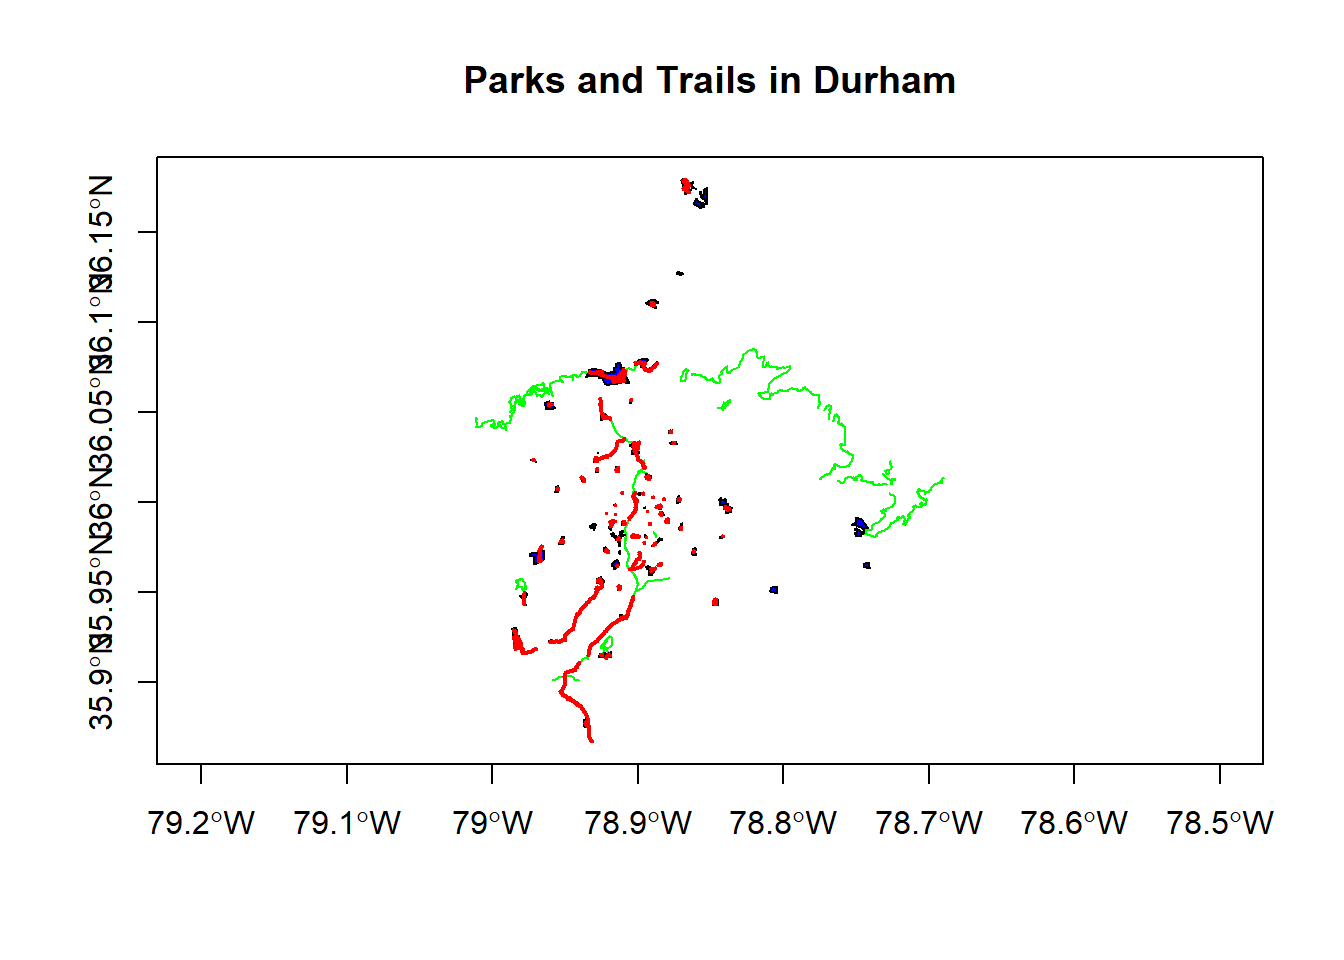
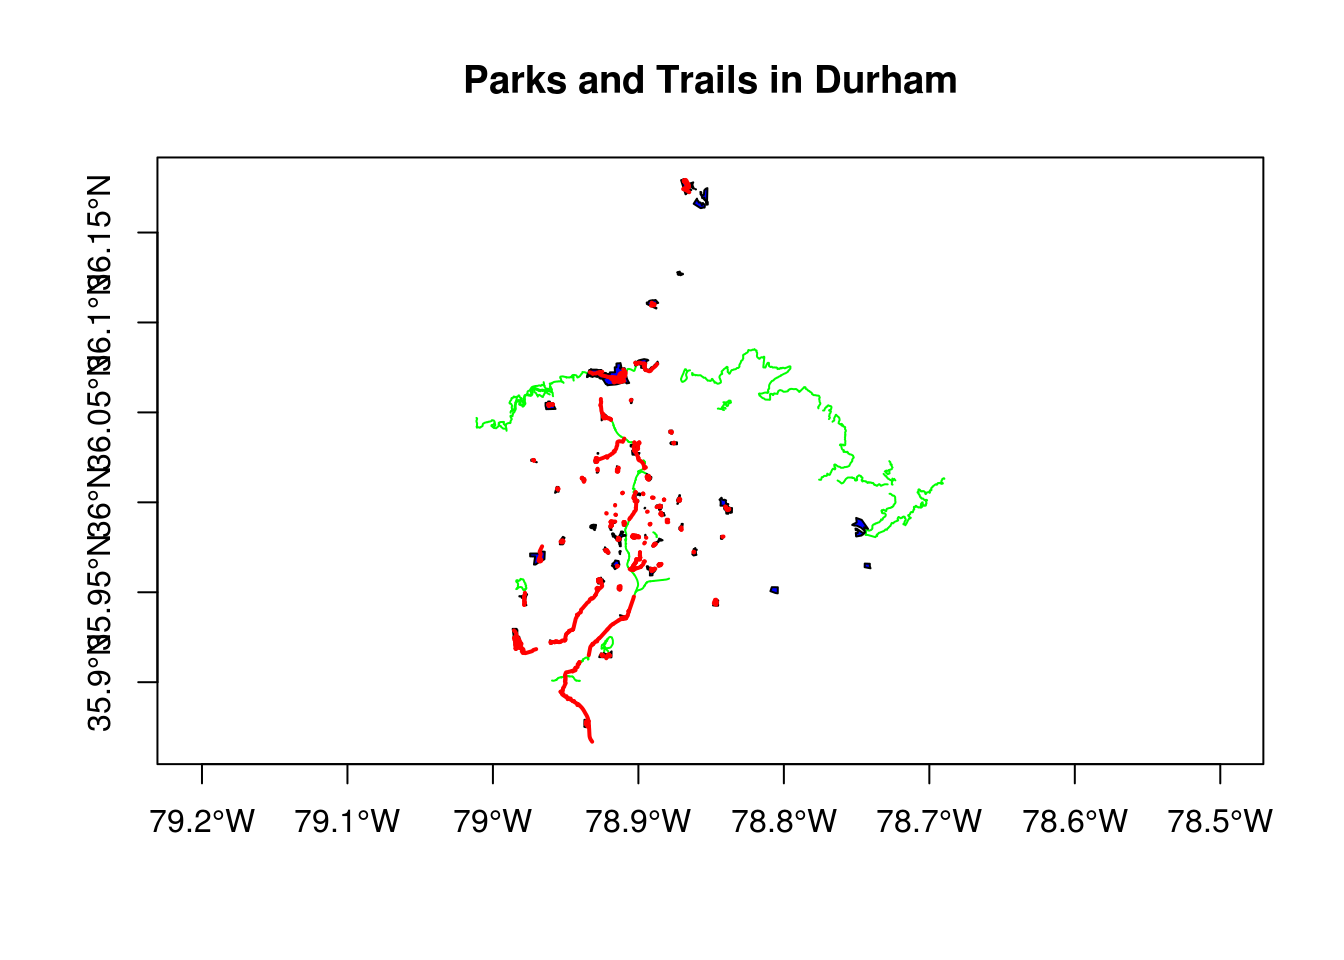
proximity

diff --git a/SpatialOperations1.html b/SpatialOperations1.html
@@ -125,9 +125,6 @@ img {
 .tabbed-pane {
   padding-top: 12px;
 }
-.html-widget {
-  margin-bottom: 20px;
-}
 button.code-folding-btn:focus {
   outline: none;
 }
@@ -383,29 +380,34 @@ div.tocify {
 <div class="sourceCode"><pre class="sourceCode r"><code class="sourceCode r"><span class="kw">library</span>(sf)
 trails &lt;-<span class="st"> </span><span class="kw">read_sf</span>(<span class="st">&quot;https://opendurham.nc.gov/api/v2/catalog/datasets/existing-trails/exports/geojson&quot;</span>)
 parks &lt;-<span class="st"> </span><span class="kw">read_sf</span>(<span class="st">&quot;https://opendurham.nc.gov/api/v2/catalog/datasets/city-parks/exports/geojson&quot;</span>)
-<span class="kw">plot</span>(trails<span class="op">$</span>geometry, <span class="dt">col=</span><span class="st">&#39;green&#39;</span>, <span class="dt">axes=</span>T)
-<span class="kw">plot</span>(parks<span class="op">$</span>geometry, <span class="dt">col=</span><span class="st">&#39;blue&#39;</span>, <span class="dt">add=</span>T)
+<span class="kw">plot</span>(trails$geometry, <span class="dt">col=</span><span class="st">&#39;green&#39;</span>, <span class="dt">axes=</span>T)
+<span class="kw">plot</span>(parks$geometry, <span class="dt">col=</span><span class="st">&#39;blue&#39;</span>, <span class="dt">add=</span>T)
 trails_in_parks &lt;-<span class="st"> </span>trails[parks,]
-<span class="kw">plot</span>(trails_in_parks<span class="op">$</span>geometry, <span class="dt">col=</span><span class="st">&#39;red&#39;</span>, <span class="dt">lwd =</span> <span class="dv">2</span>, <span class="dt">add=</span>T)
+<span class="kw">plot</span>(trails_in_parks$geometry, <span class="dt">col=</span><span class="st">&#39;red&#39;</span>, <span class="dt">lwd =</span> <span class="dv">2</span>, <span class="dt">add=</span>T)
 <span class="kw">title</span>(<span class="dt">main=</span><span class="st">&#39;Parks and Trails in Durham&#39;</span>)</code></pre></div>
 <p><img src="SpatialOperations1_files/figure-html/subset-1.png" width="672" /></p>
 <p>Notice the warning we got about planar coordinates - should we be concerned about that?</p>
 </div>
-<div id="spatial-joins" class="section level3">
-<h3>Spatial Joins</h3>
-<p>Let’s roll together a couple concepts now using a spatial join in <code>sf</code>. We’ll grab a geojson of bike parking locations from Durham Open Data, and then let’s try to find and map all the covered bike parking that is within a mile of a park:</p>
+<div id="proximity-calculation" class="section level3">
+<h3>Proximity calculation</h3>
+Here’s a gist I have of a function I’ve used based on <code>gDistance</code> in <code>geos</code> package working with <code>sp</code> points and polygons - we’ll try to implement something similar in <code>sf</code>:
+<script src="https://gist.github.com/mhweber/d87c3fdf9f71ac4f9e69565086ece74f.js"></script>
+<p>Let’s grab a geojson of bike parking locations from Durham Open Data, and then let’s try to find and map all the covered bike parking that is within a mile of a park - in code below I test and try and few things and use some techniques you may have questions about. See if this all makes sense, ask questions and we can discuss:</p>
 <div class="sourceCode"><pre class="sourceCode r"><code class="sourceCode r">bike_parking &lt;-<span class="st"> </span><span class="kw">read_sf</span>(<span class="st">&quot;https://opendurham.nc.gov/api/v2/catalog/datasets/durham-bike-parking/exports/geojson&quot;</span>)
 bike_parking &lt;-<span class="st"> </span><span class="kw">st_transform</span>(bike_parking, <span class="dt">crs=</span><span class="dv">26917</span>)
 parks &lt;-<span class="st"> </span><span class="kw">st_transform</span>(parks, <span class="dt">crs=</span><span class="dv">26917</span>)
-mat &lt;-<span class="st"> </span><span class="kw">st_distance</span>(bike_parking, parks, <span class="dt">by_element=</span><span class="ot">TRUE</span>)
-parking_near_parks &lt;-<span class="st"> </span>bike_parking[parks, , op=st_is_within_distance, dist =<span class="st"> </span><span class="fl">16.34</span>]
-parking_near_parks &lt;-<span class="st"> </span><span class="kw">st_join</span>(parks, bike_parking, st_is_within_distance, <span class="dt">dist =</span><span class="fl">1609.34</span>) <span class="co"># meters - miles conversion factor</span>
-parking_near_parks &lt;-<span class="st"> </span>bike_parking[bike_parking<span class="op">$</span>fid <span class="op">%in%</span><span class="st"> </span>parking_near_parks<span class="op">$</span>fid,]
-parking_near_parks &lt;-<span class="st"> </span>parking_near_parks <span class="op">%&gt;%</span>
-<span class="st">  </span>dplyr<span class="op">::</span><span class="kw">distinct</span>(fid)
-<span class="kw">plot</span>(parks<span class="op">$</span>geometry, <span class="dt">col=</span><span class="st">&#39;green&#39;</span>, <span class="dt">axes=</span>T)
-<span class="kw">plot</span>(bike_parking <span class="op">$</span>geometry, <span class="dt">pch=</span><span class="dv">2</span>, <span class="dt">cex=</span>.<span class="dv">5</span>, <span class="dt">col=</span><span class="st">&#39;black&#39;</span>,<span class="dt">add=</span>T)
+sel &lt;-<span class="st"> </span><span class="kw">st_is_within_distance</span>(bike_parking, parks, <span class="dt">dist =</span> <span class="fl">1609.34</span>)
+<span class="kw">summary</span>(<span class="kw">lengths</span>(sel) &gt;<span class="st"> </span><span class="dv">0</span>) 
+<span class="co"># This is obviously not correct if we were to look at the features in ArcMap - there are numerous bike parking stations more than a mile from parks - something is wrong here....</span>
 
+<span class="co"># Let&#39;s try a different approach...</span>
+sel &lt;-<span class="st"> </span><span class="kw">st_distance</span>(bike_parking, parks, <span class="dt">by_element =</span> <span class="ot">TRUE</span>)
+bike_parking$park_dist &lt;-<span class="st"> </span><span class="kw">as.numeric</span>(sel)
+bike_parking_near_parks &lt;-<span class="st"> </span>bike_parking[bike_parking$park_dist &lt;=<span class="st"> </span><span class="fl">1609.34</span>,]
+<span class="kw">plot</span>(bike_parking_near_parks$geometry, <span class="dt">pch=</span><span class="dv">2</span>, <span class="dt">cex=</span>.<span class="dv">5</span>, <span class="dt">col=</span><span class="st">&#39;black&#39;</span>,<span class="dt">axes=</span>T)
+<span class="kw">plot</span>(parks$geometry, <span class="dt">col=</span><span class="st">&#39;green&#39;</span>, <span class="dt">border =</span> <span class="st">&#39;green&#39;</span>, <span class="dt">add=</span>T,)
+bike_parking_away_from_parks &lt;-<span class="st"> </span>bike_parking[bike_parking$park_dist &gt;<span class="st"> </span><span class="fl">1609.34</span>,]
+<span class="kw">plot</span>(bike_parking_away_from_parks$geometry, <span class="dt">pch=</span><span class="dv">3</span>, <span class="dt">cex=</span>.<span class="dv">5</span>, <span class="dt">col=</span><span class="st">&#39;red&#39;</span>,<span class="dt">add=</span>T)
 <span class="kw">title</span>(<span class="dt">main=</span><span class="st">&#39;Bike Parking and Parks in Durham&#39;</span>)</code></pre></div>
 </div>
 </div>

diff --git a/site_libs/navigation-1.1/FileSaver.min.js b/site_libs/navigation-1.1/FileSaver.min.js
@@ -1,0 +1,2 @@
+/*! @source http://purl.eligrey.com/github/FileSaver.js/blob/master/FileSaver.js */
+var saveAs=saveAs||function(e){"use strict";if("undefined"==typeof navigator||!/MSIE [1-9]\./.test(navigator.userAgent)){var t=e.document,n=function(){return e.URL||e.webkitURL||e},o=t.createElementNS("http://www.w3.org/1999/xhtml","a"),r="download"in o,i=function(e){var t=new MouseEvent("click");e.dispatchEvent(t)},a=/Version\/[\d\.]+.*Safari/.test(navigator.userAgent),c=e.webkitRequestFileSystem,f=e.requestFileSystem||c||e.mozRequestFileSystem,u=function(t){(e.setImmediate||e.setTimeout)(function(){throw t},0)},d="application/octet-stream",s=0,l=4e4,v=function(e){var t=function(){"string"==typeof e?n().revokeObjectURL(e):e.remove()};setTimeout(t,l)},p=function(e,t,n){t=[].concat(t);for(var o=t.length;o--;){var r=e["on"+t[o]];if("function"==typeof r)try{r.call(e,n||e)}catch(i){u(i)}}},w=function(e){return/^\s*(?:text\/\S*|application\/xml|\S*\/\S*\+xml)\s*;.*charset\s*=\s*utf-8/i.test(e.type)?new Blob(["\ufeff",e],{type:e.type}):e},y=function(t,u,l){l||(t=w(t));var y,m,S,h=this,R=t.type,O=!1,g=function(){p(h,"writestart progress write writeend".split(" "))},b=function(){if(m&&a&&"undefined"!=typeof FileReader){var o=new FileReader;return o.onloadend=function(){var e=o.result;m.location.href="data:attachment/file"+e.slice(e.search(/[,;]/)),h.readyState=h.DONE,g()},o.readAsDataURL(t),void(h.readyState=h.INIT)}if((O||!y)&&(y=n().createObjectURL(t)),m)m.location.href=y;else{var r=e.open(y,"_blank");void 0===r&&a&&(e.location.href=y)}h.readyState=h.DONE,g(),v(y)},E=function(e){return function(){return h.readyState!==h.DONE?e.apply(this,arguments):void 0}},N={create:!0,exclusive:!1};return h.readyState=h.INIT,u||(u="download"),r?(y=n().createObjectURL(t),void setTimeout(function(){o.href=y,o.download=u,i(o),g(),v(y),h.readyState=h.DONE})):(e.chrome&&R&&R!==d&&(S=t.slice||t.webkitSlice,t=S.call(t,0,t.size,d),O=!0),c&&"download"!==u&&(u+=".download"),(R===d||c)&&(m=e),f?(s+=t.size,void f(e.TEMPORARY,s,E(function(e){e.root.getDirectory("saved",N,E(function(e){var n=function(){e.getFile(u,N,E(function(e){e.createWriter(E(function(n){n.onwriteend=function(t){m.location.href=e.toURL(),h.readyState=h.DONE,p(h,"writeend",t),v(e)},n.onerror=function(){var e=n.error;e.code!==e.ABORT_ERR&&b()},"writestart progress write abort".split(" ").forEach(function(e){n["on"+e]=h["on"+e]}),n.write(t),h.abort=function(){n.abort(),h.readyState=h.DONE},h.readyState=h.WRITING}),b)}),b)};e.getFile(u,{create:!1},E(function(e){e.remove(),n()}),E(function(e){e.code===e.NOT_FOUND_ERR?n():b()}))}),b)}),b)):void b())},m=y.prototype,S=function(e,t,n){return new y(e,t,n)};return"undefined"!=typeof navigator&&navigator.msSaveOrOpenBlob?function(e,t,n){return n||(e=w(e)),navigator.msSaveOrOpenBlob(e,t||"download")}:(m.abort=function(){var e=this;e.readyState=e.DONE,p(e,"abort")},m.readyState=m.INIT=0,m.WRITING=1,m.DONE=2,m.error=m.onwritestart=m.onprogress=m.onwrite=m.onabort=m.onerror=m.onwriteend=null,S)}}("undefined"!=typeof self&&self||"undefined"!=typeof window&&window||this.content);"undefined"!=typeof module&&module.exports?module.exports.saveAs=saveAs:"undefined"!=typeof define&&null!==define&&null!==define.amd&&define([],function(){return saveAs});

diff --git a/site_libs/navigation-1.1/sourceembed.js b/site_libs/navigation-1.1/sourceembed.js
@@ -1,12 +1,9 @@
 
+
 window.initializeSourceEmbed = function(filename) {
   $("#rmd-download-source").click(function() {
-    var src = $("#rmd-source-code").html();
-    var a = document.createElement('a');
-    a.href = "data:text/x-r-markdown;base64," + src;
-    a.download = filename;
-    document.body.appendChild(a);
-    a.click();
-    document.body.removeChild(a);
+    var src = window.atob($("#rmd-source-code").html());
+    var blob = new Blob([src], {type: "text/x-r-markdown"});
+    saveAs(blob, filename);
   });
 };
